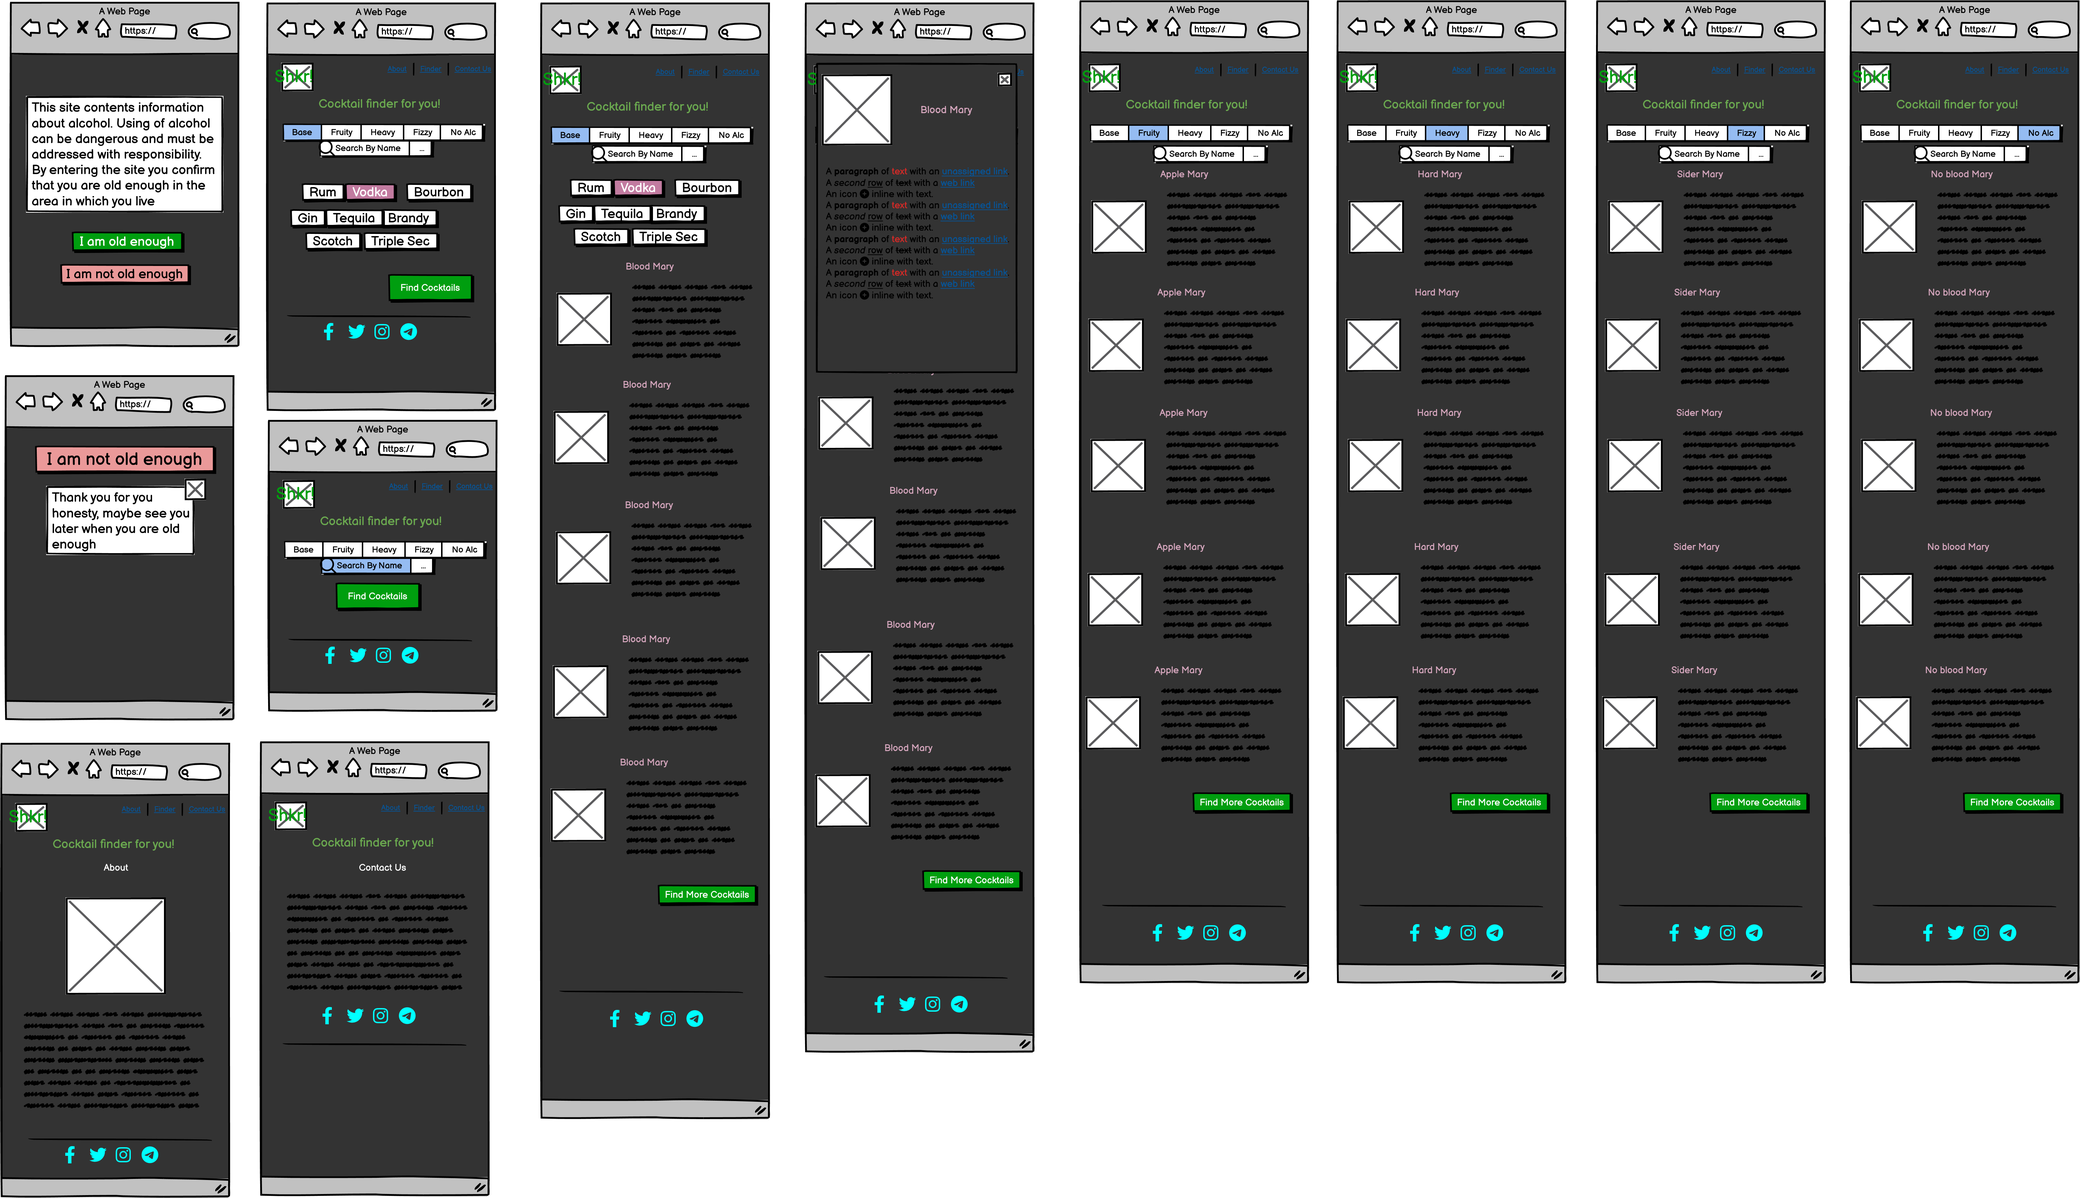
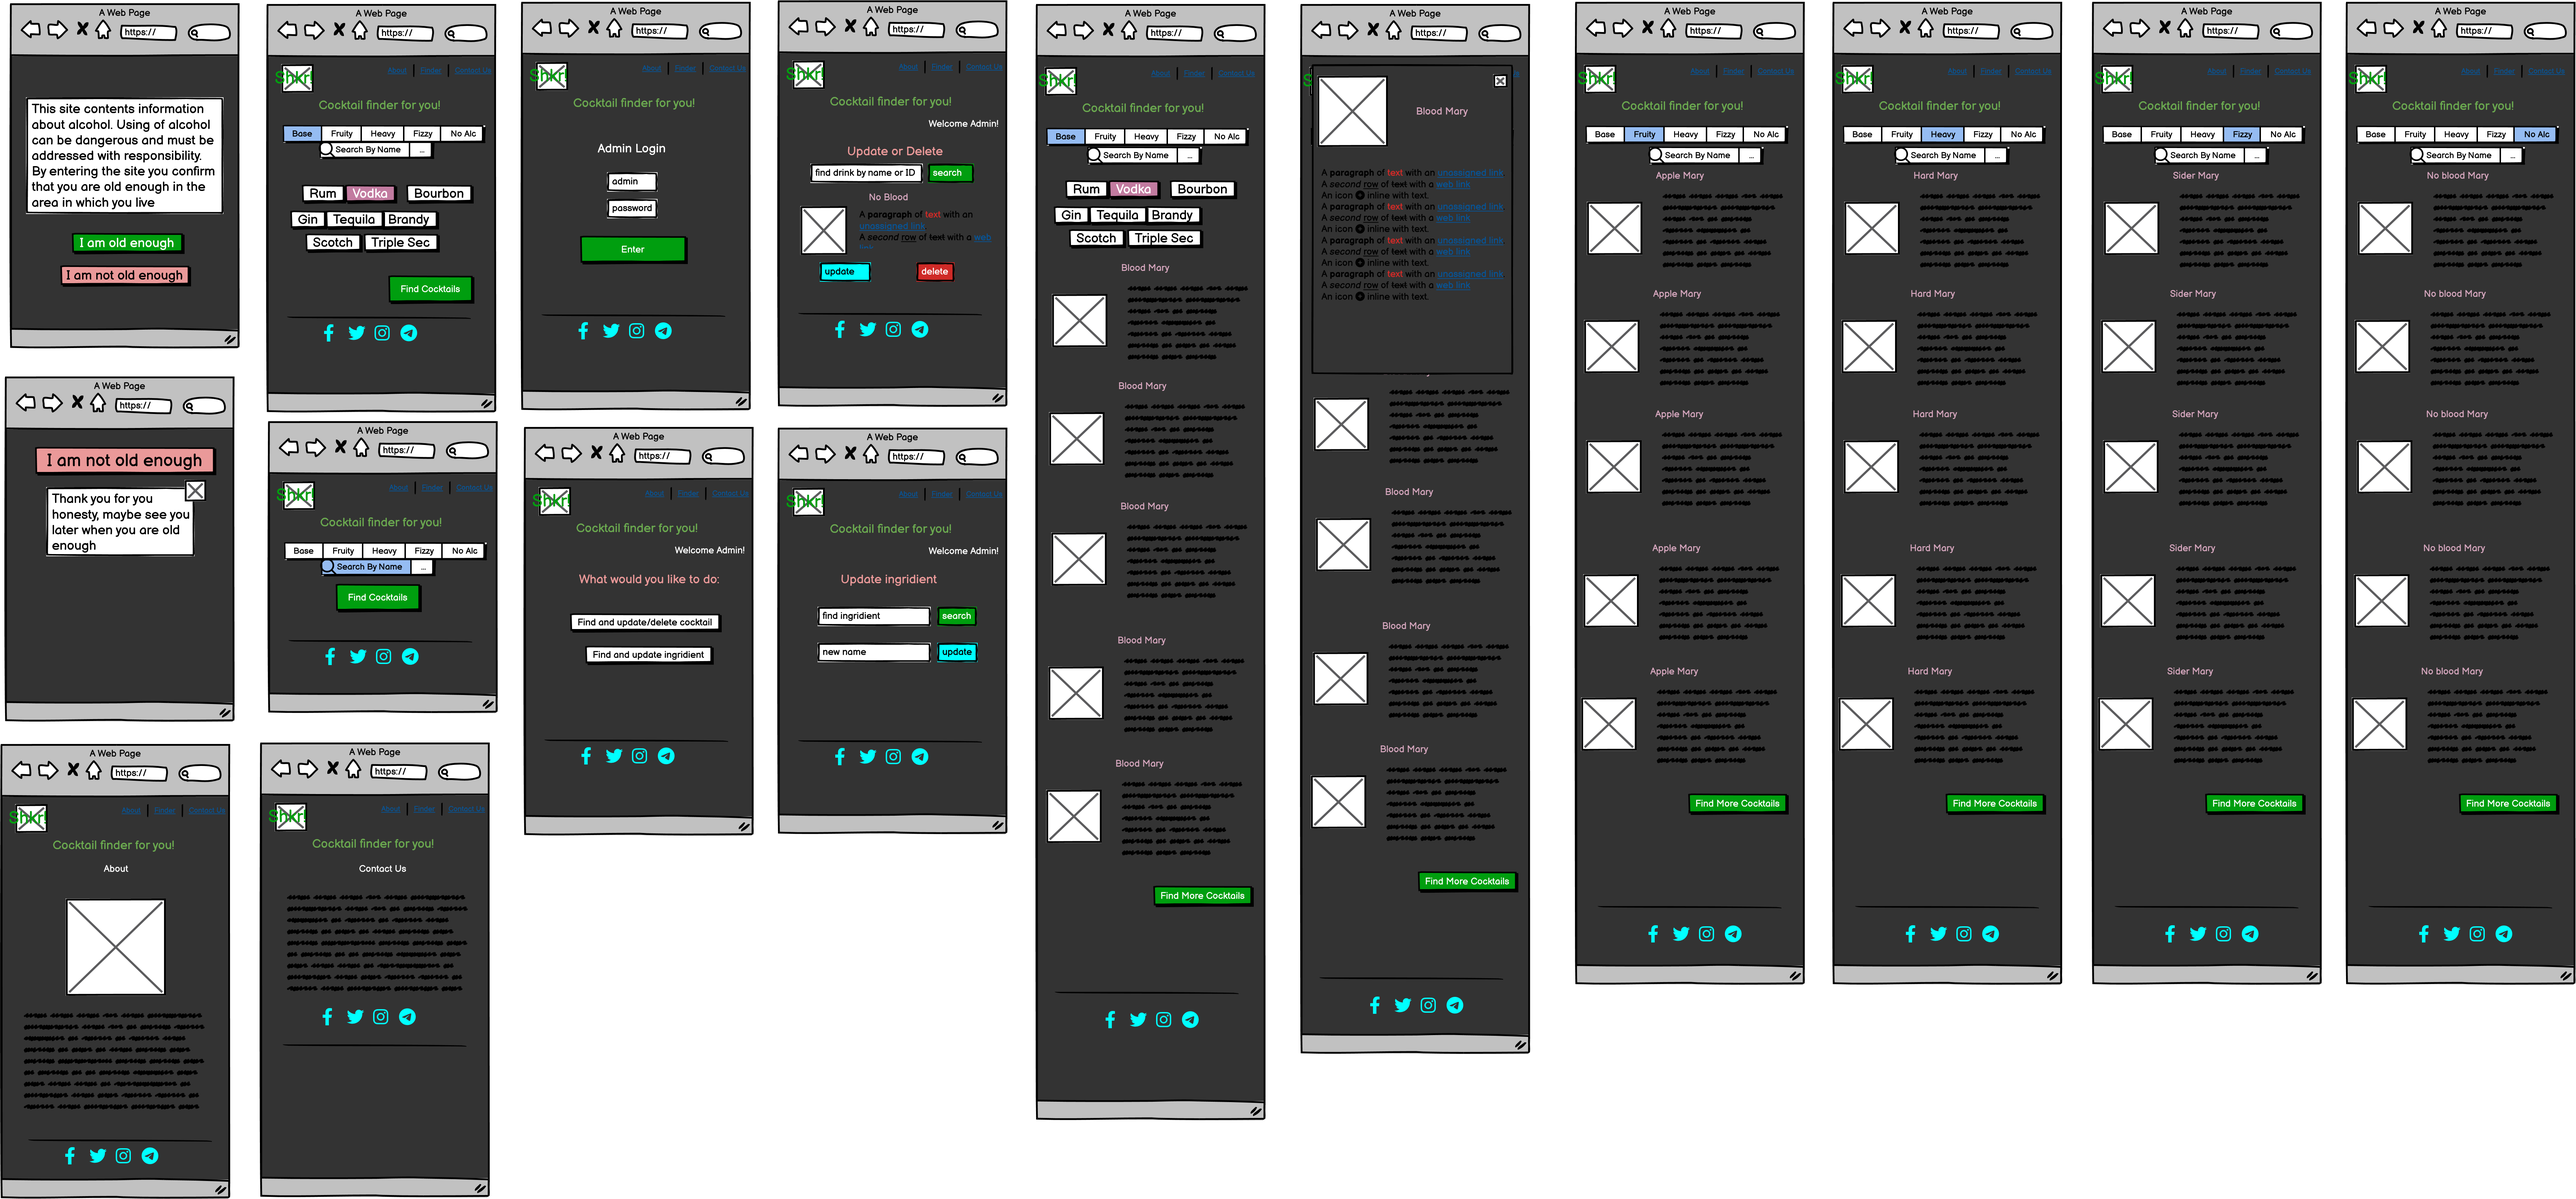
Add Updated wireframes, old wireframes, screenshots from whatsapp

diff --git a/README.md b/README.md
@@ -48,7 +48,9 @@ Still however, while the structure had improved the information pertaining to ac
 <img src="./docs/DFDs/DFDmkIII.png" alt="3rd DFD attempt">
 <img src="./docs/DFDs/FeedbackMkIII.png" alt="3rd Feedback">
 Some of these were oversights simply from being up all night staring at it, and some were due to disorganized files. Whatever the case, with the assistance of our educators the final result was approved on 02/02 much to our delight. <br> 
+<img src="./docs/whatsapp/DFD_AAD.png" alt="DFD AAD discussion"><br/>
 This, of course, did not stop us. Oh no, we were excited, we were on a roll! Upon further discussion we realised that with the initial funcionality of the app we could get rid of the user login and just have an open website but with a discreet admin login available to those with authorisation. <br>
+
 The final DFD is compiled thusly
 <img src="./docs/DFDs/ShkrDFD-final.png" alt="Finalized DFD">
 
@@ -97,13 +99,24 @@ The final DFD is compiled thusly
 **What is the problem this user requires solving**: Creating a cocktail with what I have at home. This could be to use up a particular bottle I have lying around and want to get rid of, creating a potion to imbibe with what I have on hand, exploring new ways of enjoying old favourites or impressing my friends with perfectly crafted beverages. Being able to make drinks that, at a base level, meet the standard I could expect in any bar I visit. I need to be able to **search for ingredient-specific drinks**, **look up specific drinks** or **look up random drinks based on genre** to accommodate my guest's tastes. Information needs to be easily obtained and site feel needs to be intuitive so as to be able to be used perhaps after a few taste tests. <br>
 
 ## R5 Wireframes
+<img src="./docs/whatsapp/website.png" alt="Color Discussion"><br/><br/>
 First attempt
 <img src="./docs/wireframes/wireframes_v0.1.png" alt="First Try"><br/><br/>
-Changes:
-- The map of the site 
-- added sub categories as Base Alc, Search By Name
-- Added age validation 
 
+
+__Version 0.1__
+<img src="./docs/wireframes/1024_v3.png" alt="Wireframes 1024"><br/>
+<img src="./docs/whatsapp/age_restr.png" alt="Age Restrictions discussion"><br/><br/>
+Added age validation<br/><br/>
+__Version 0.2__<br/>
+<img src="./docs/wireframes/1024_v4.png" alt="Wireframes 1024"><br/>
+Added function "Find By Name"<br/><br/>
+__Version 0.3__<br/>
+<img src="./docs/wireframes/1024_v5.png" alt="Wireframes 1024"><br/>
+<img src="./docs/whatsapp/admin.png" alt="Color Discussion"><br/><br/>
+Added admin login, admin functionality as "Update/delete cocktail" and "Update ingridient"<br/><br/>
+
+__Final Version__:
 ### Sitemap
 <img src="./docs/wireframes/Map.png" alt="Site Map"><br/><br/>
 ### Wireframes size 1024px
@@ -116,6 +129,10 @@ Changes:
 
 
 ## R6 Design
+__Thoughts__
+<img src="./docs/whatsapp/App_name.png" alt="Color Discussion"><br/><br/>
+<img src="./docs/whatsapp/color.png" alt="Color Discussion"><br/><br/>
+
 __Pinterest Board__
 <img src="./docs/pinterest.png" alt="Pinterest Board"><br/><br/>
 __Color ideas__<br/>
